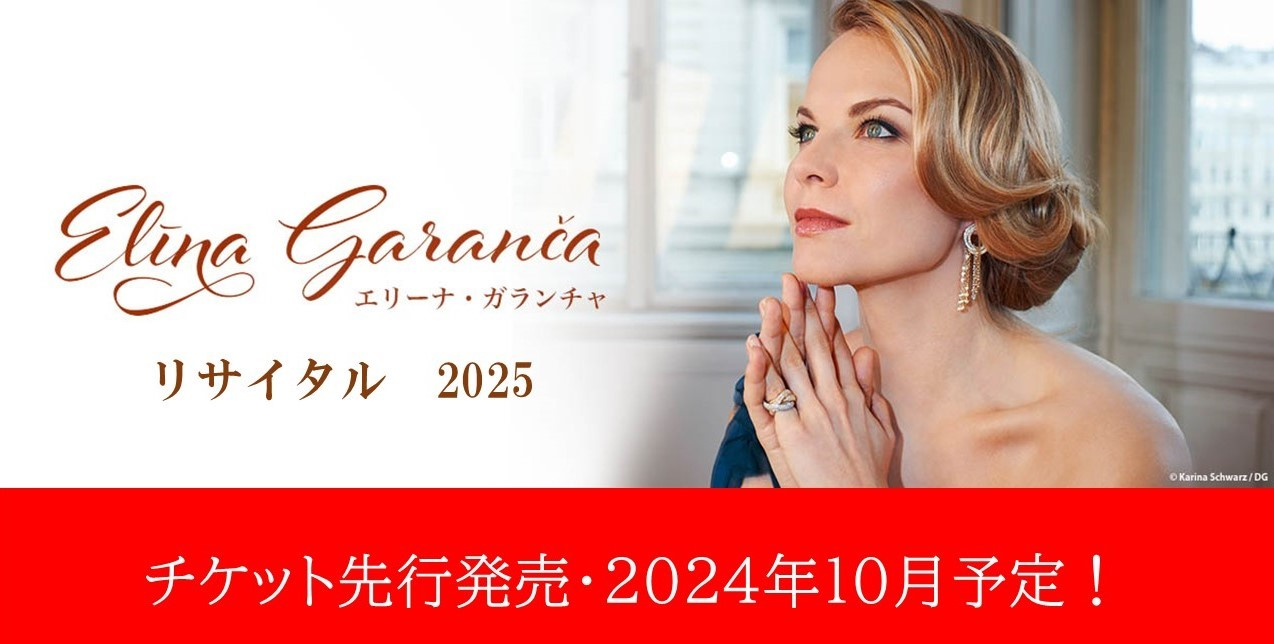
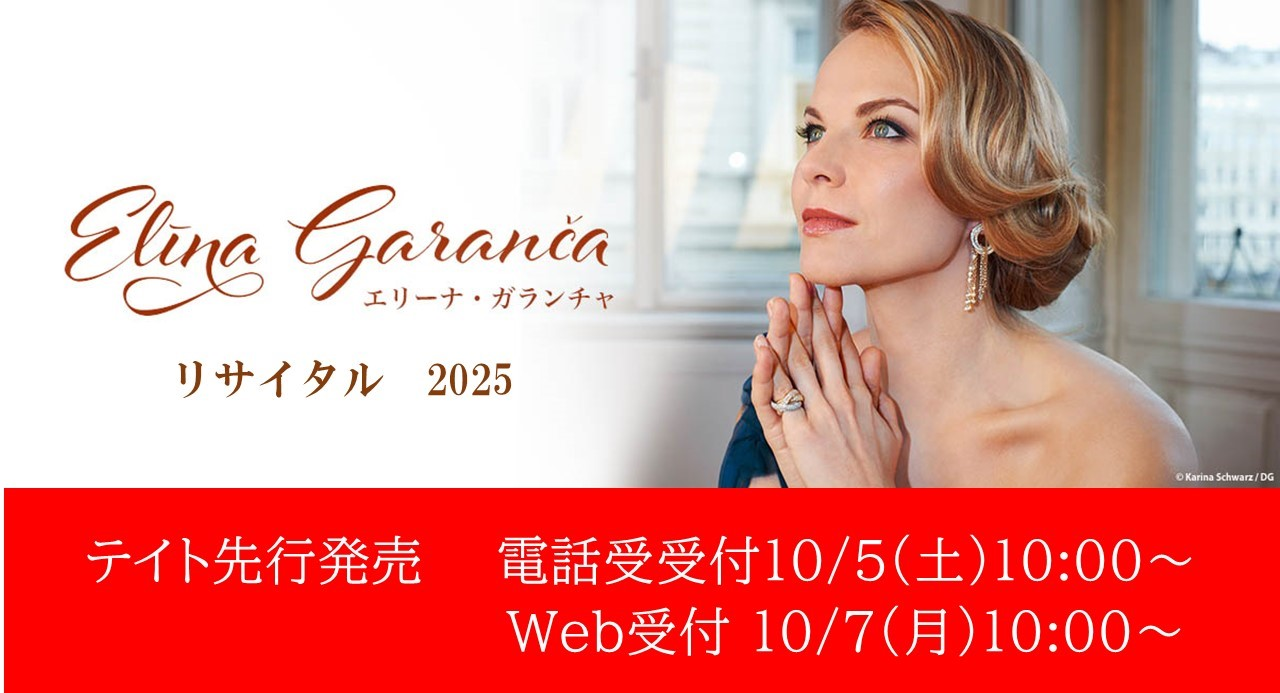
change files

diff --git a/concert2020/garancha2025.html b/concert2020/garancha2025.html
@@ -62,7 +62,7 @@
             </p>
             <div style="margin: 20px;"></div>
             <p>
-              主催：テイト・コーポレーション<br>
+              主催：朝日新聞社、テイト・コーポレーション<br>
               企画・招聘：テイト・コーポレーション<br>
               演奏：新日本フィルハーモニー交響楽団<br>
             </p>
@@ -102,8 +102,8 @@
 
     <div class="applyinfo" style="line-height: 1.7;">
       <h2><a>販売スケジュール</a></h2>
-      ・2024年10月テイトチケットセンター（主催者）先行発売予定<br>
-      （詳細は随時当HPにて発表）<br>
+      ・主催者先行発売（電話受付）10月5日(土)10:00〜<br>
+      ・主催者先行発売（WEB受付）10月7日(月)10:00〜<br>
     </div>
 
     <div class="applyinfo">
@@ -112,7 +112,7 @@
         <tr>
           <td style="text-align: left;"><img src="../index/tel.png"></style=>
           <td style="text-align: left;">【 03-6774-1968 】(10:00～19:00　土日祝日も受付)
-            <br>★先行電話受付：2024年10月上旬予定
+            <br>★先行電話受付：2024年10月5日(土)10:00～
           </td>
         </tr>
         <tr>
@@ -120,7 +120,7 @@
           <td style="text-align: left;">
             【マイチケ】
             <a href=" https://myticketnavi.com/event/list">https://myticketnavi.com/</a>
-            <br>★先行WEB受付：2024年10月上旬予定
+            <br>★先行WEB受付：2024年10月7日(月)10:00～
           </td>
         </tr>
       </table>
@@ -175,16 +175,19 @@
         <td>6月17日(火)<br>開場18:00<br>開演18:30</td>
         <td>東京オペラシティコンサートホール</td>
         <td>03-6774-1968<br>テイト・チケットセンター</td>
-        <td>【全席指定】
-          <br>チケット価格未定
+        <td>【全席指定】<br>
+          S席21,000円 A席18,000円<br>
+          B席15,000円
         </td>
       </tr>
       <tr>
         <td>6月21日(土)<br>開場17:30<br>開演18:30</td>
         <td>サントリーホール</td>
         <td>03-6774-1968<br>テイト・チケットセンター</td>
-        <td>【全席指定】
-          <br>チケット価格未定
+        <td>【全席指定】<br>
+          SS席28,000円 S席26,000円<br>
+          A席24,000円 B席21,000円<br>
+          C席18,000円 P席15,000円
         </td>
       </tr>
     </table>
